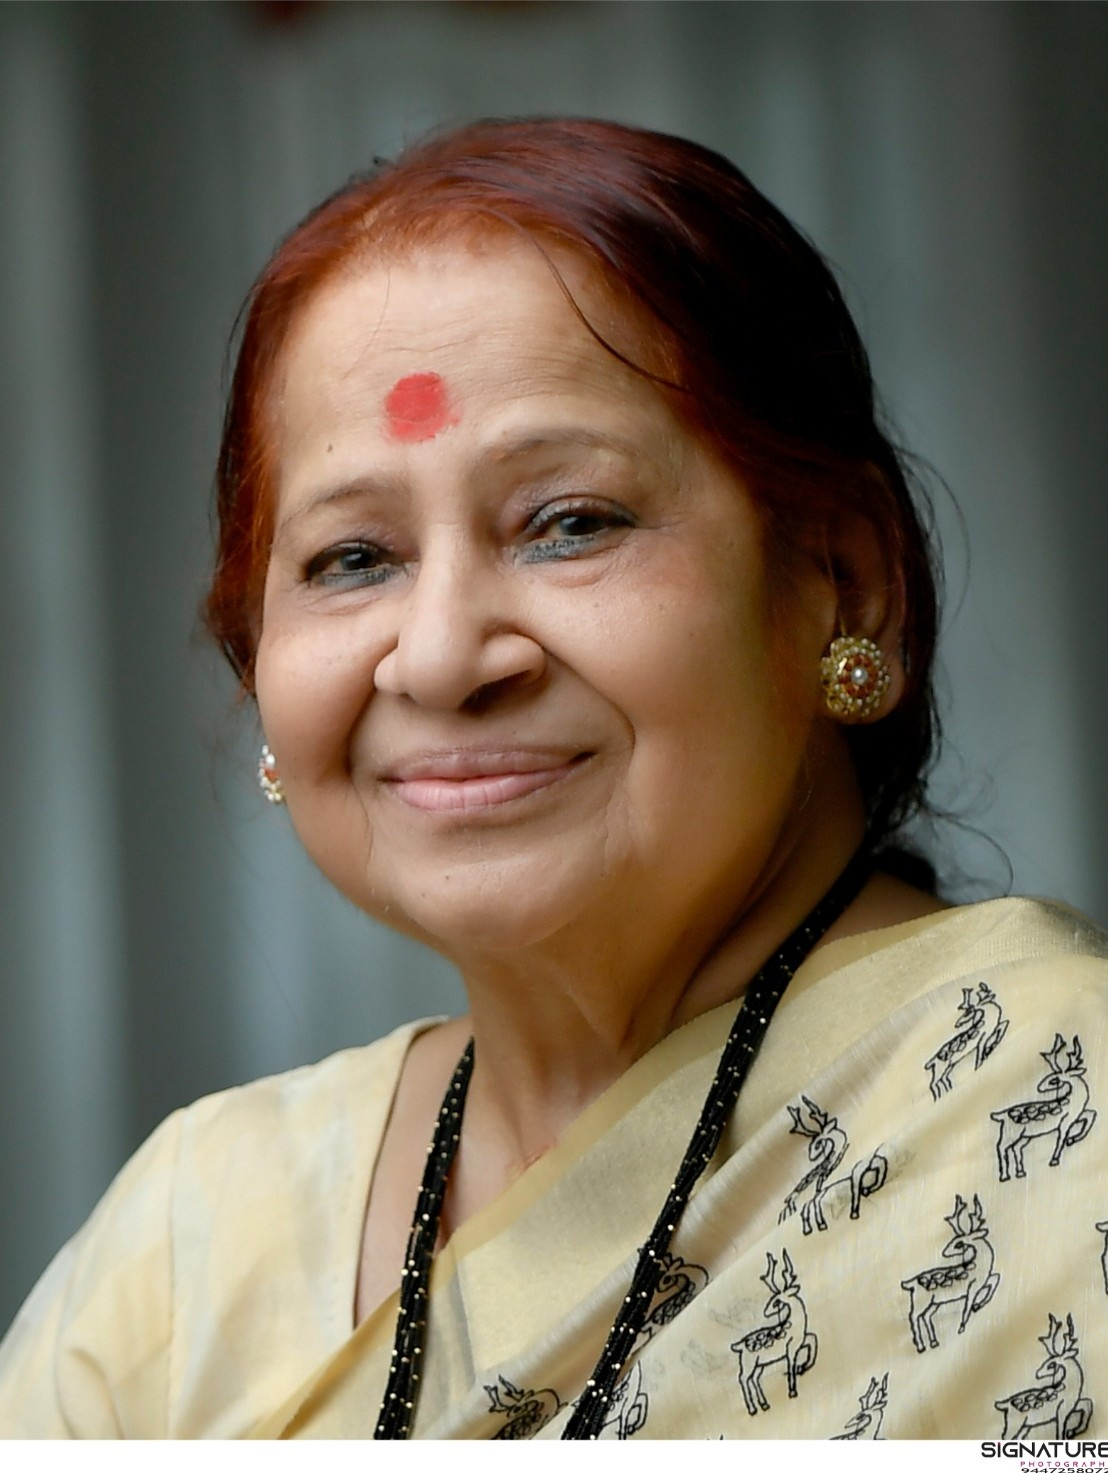
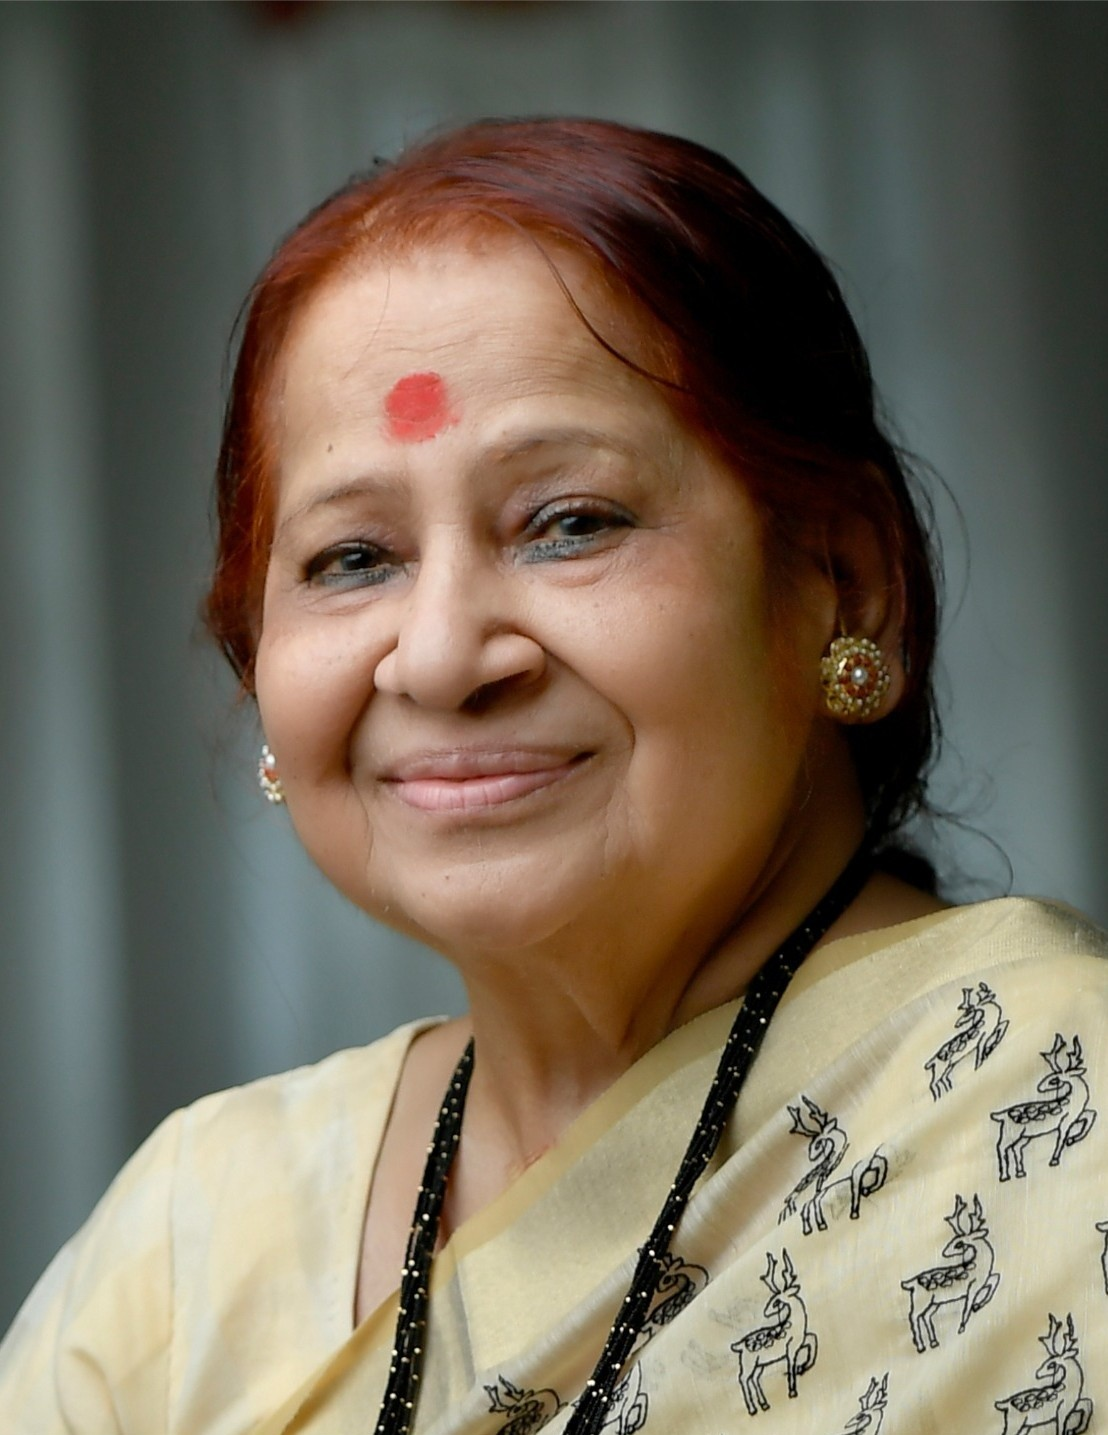
updated images

diff --git a/src/components/AboutSection.tsx b/src/components/AboutSection.tsx
@@ -28,7 +28,7 @@ export default function AboutSection() {
             <img
               src="/img/saroja-thampi.jpeg"
               alt="Chamundi Hill Palace"
-              className="w-full h-[550px] object-cover object-top"
+              className="w-full"
             />
           </div>
 
